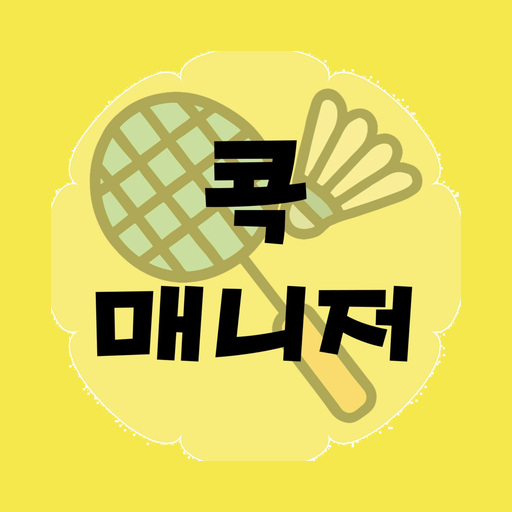
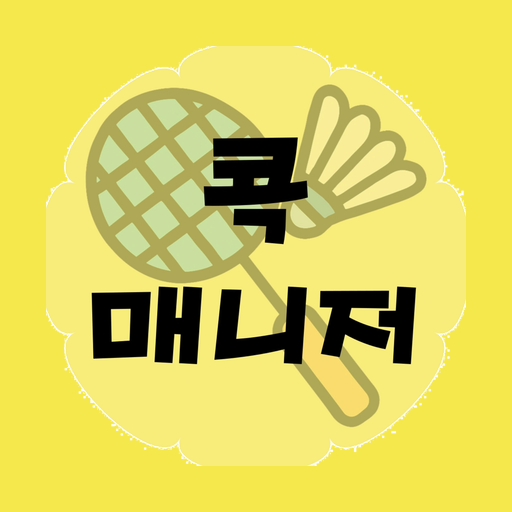
로고 사진 변경

diff --git a/app/layout.tsx b/app/layout.tsx
@@ -59,9 +59,13 @@ export const metadata: Metadata = {
   },
   icons: {
     icon: [
-      { url: "/icon.png", sizes: "512x512", type: "image/png" },
+      { url: "/favicon.ico", sizes: "any" },
+      { url: "/favicon-32.png", sizes: "32x32", type: "image/png" },
+      { url: "/favicon-16.png", sizes: "16x16", type: "image/png" },
       { url: "/pwa-192.png", sizes: "192x192", type: "image/png" },
+      { url: "/icon.png", sizes: "512x512", type: "image/png" },
     ],
+    shortcut: "/favicon.ico",
     apple: [
       {
         url: "/apple-icon.png",
